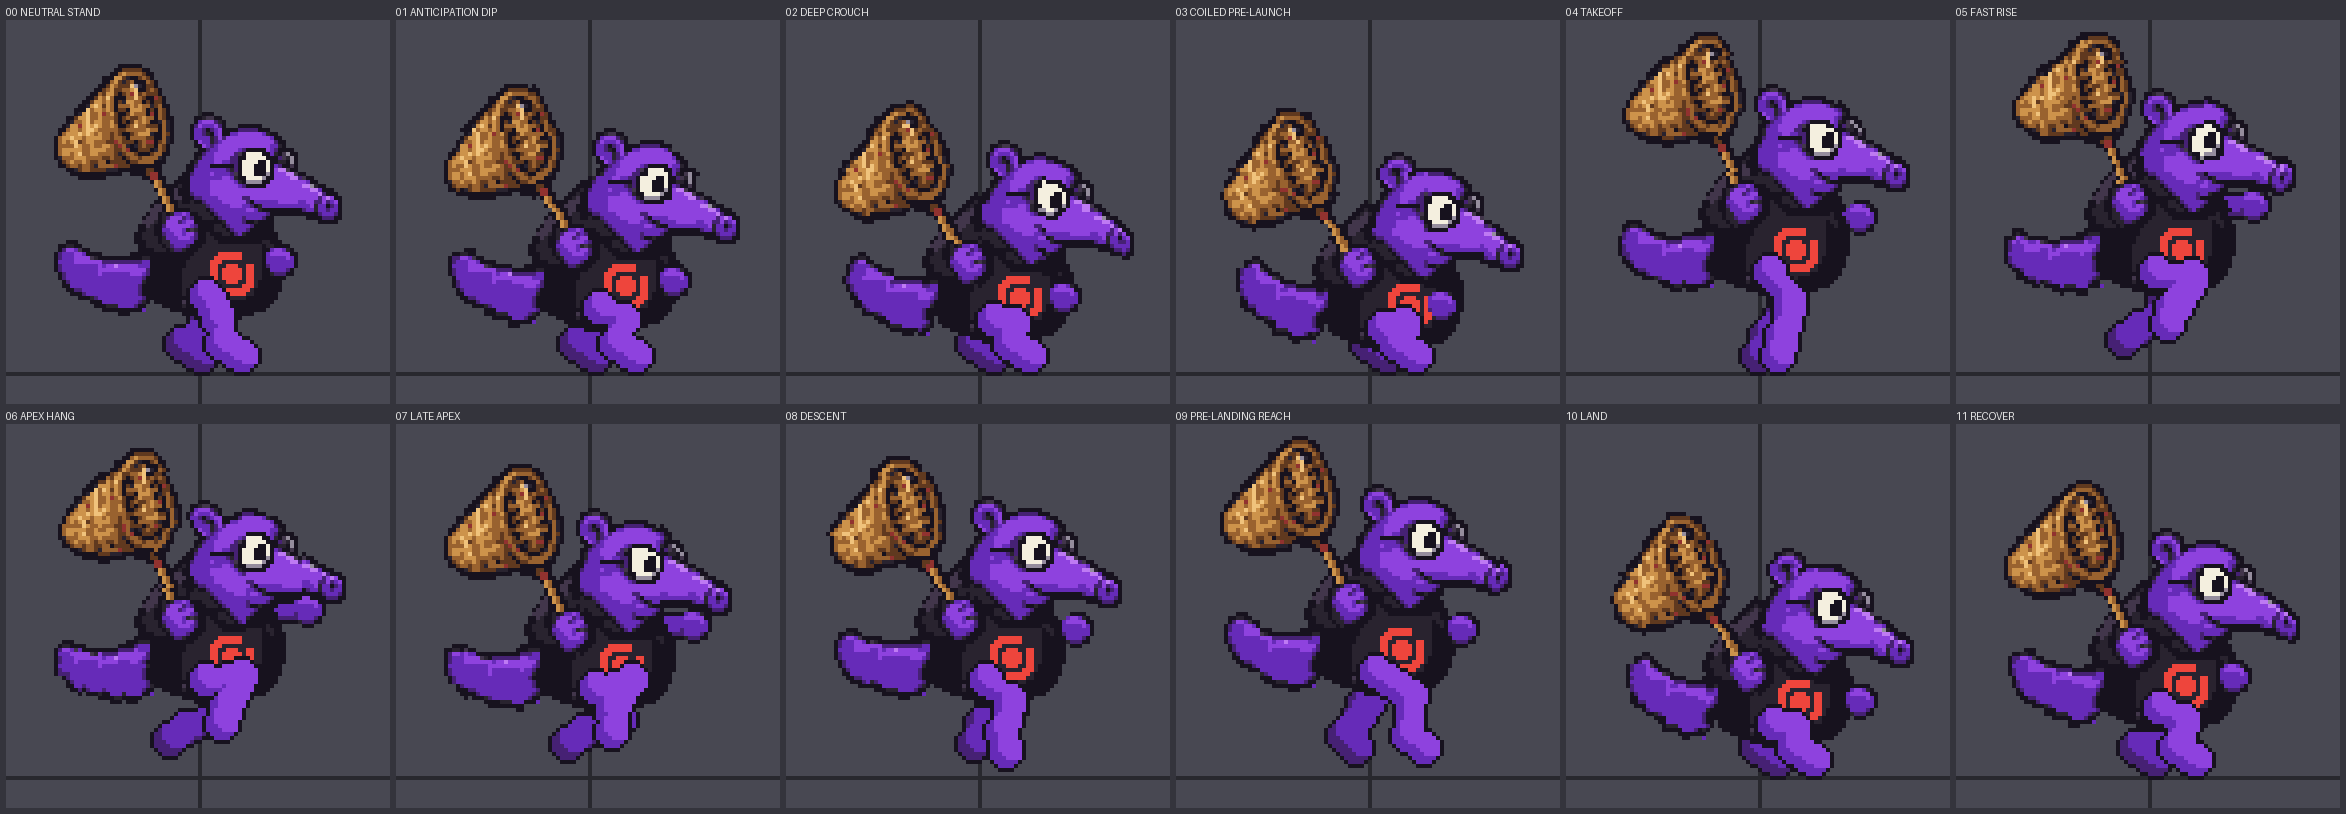
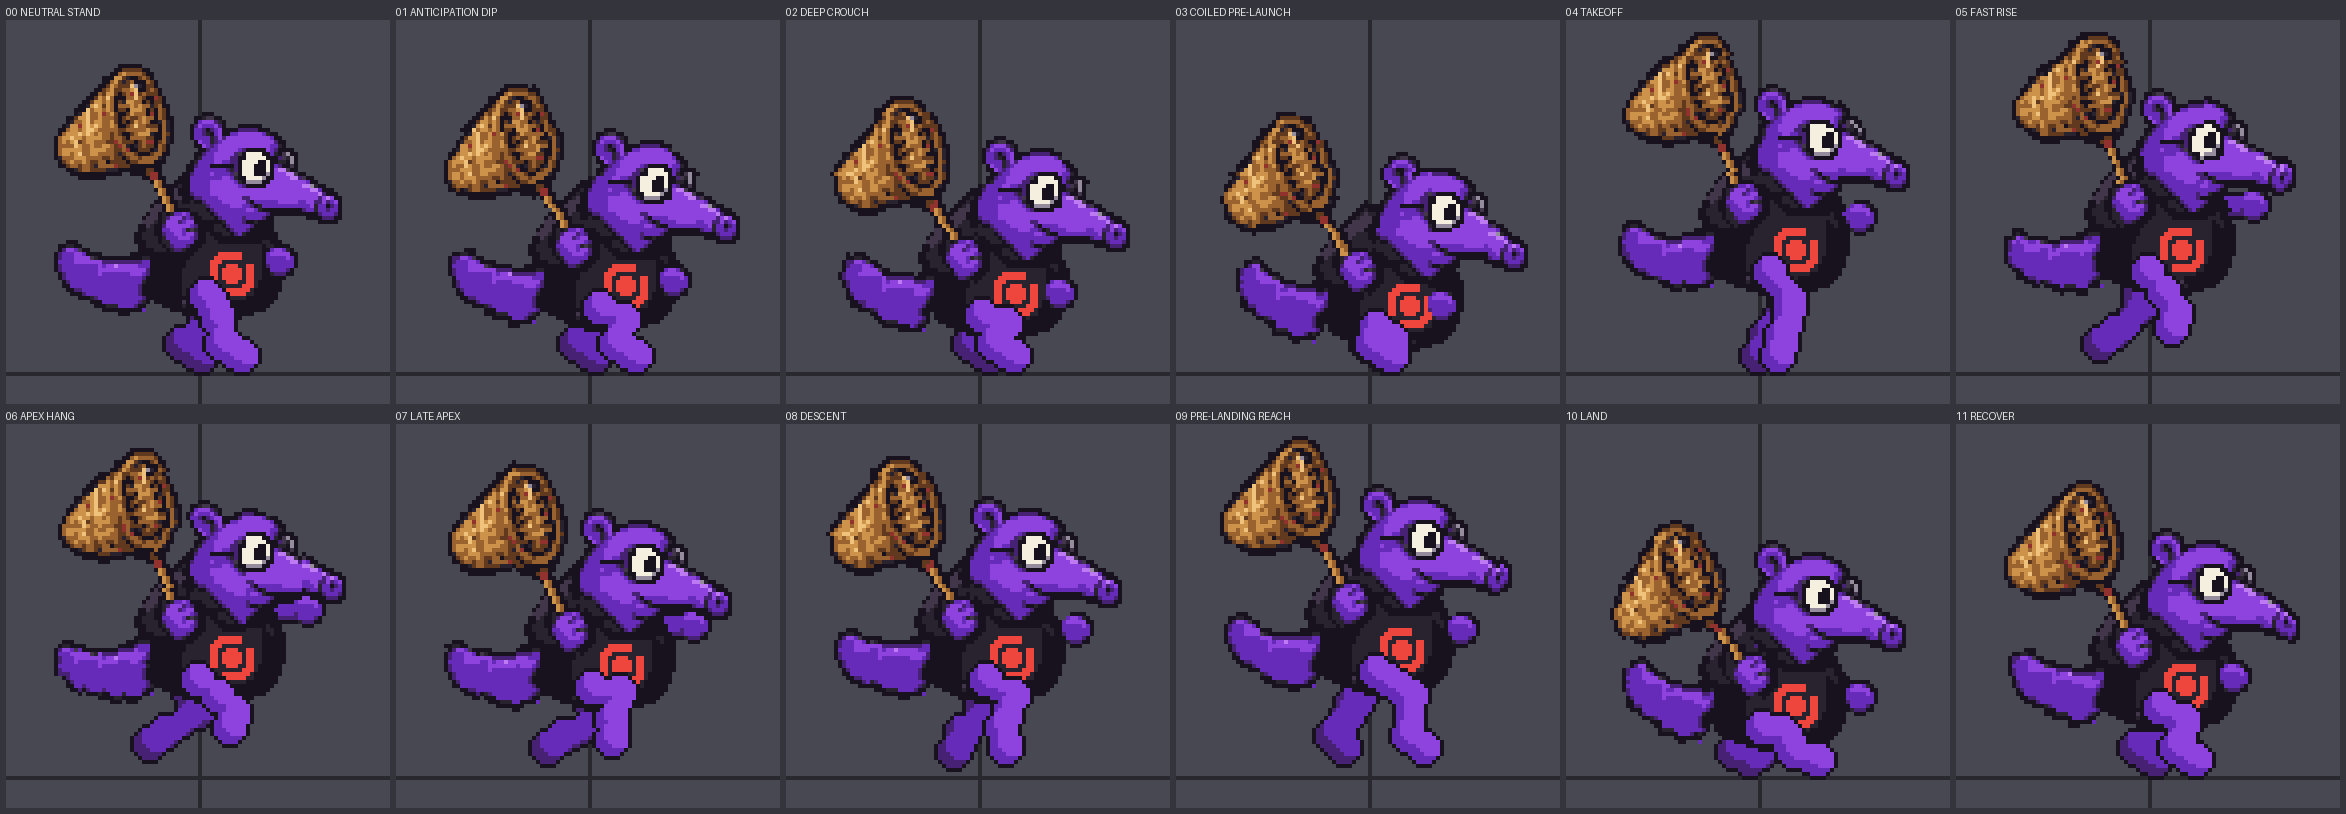
M2: jump sheet pass 2: distinct crouch/coil/land, visible far leg, apex passing
Crouch 5 px, coil 8 px with head pushed forward and net dropped further,
land 7 px with the head level and the net thrown +12. Far hip sits 4 px
behind the near hip in the air so the trailing dark leg reads; late apex
opens the tuck. Near hip moves back where the thigh covered the emblem.

diff --git a/snouty-art/snoutyart/anim/jump.py b/snouty-art/snoutyart/anim/jump.py
@@ -9,7 +9,7 @@ above 88; the cart adds its own parabolic lift, and each frame's meta carries a
 suggested "lift" (px up) used by the scrolling preview.
 
 Cell coordinates (96x96, origin (48,88), y down). Per frame: body offset, part
-rotations, near/far toe and ankle, and a per-frame segment length for the leg
+rotations, near/far hip x, toe and ankle, and a per-frame segment length for the leg
 IK (shorter than the rig's 14 px when the leg should read as straightened,
 since the full 28 px leg never fits between hip and ground in this cell).
 """
@@ -27,38 +27,47 @@ GROUNDED = [True] * 5 + [False] * 5 + [True] * 2
 LIFT = [0, 0, 0, 0, 0, 10, 26, 36, 34, 20, 0, 0]
 
 # name: per-frame values, index = frame
-# body (dx, dy): torso/hips/tail. Positive dy = down.
-BODY = [(0, 0), (1, 3), (2, 6), (2, 8), (1, -6), (0, -6), (0, -5), (0, -3),
-        (0, -5), (0, -7), (2, 6), (1, 2)]
+# body (dx, dy): torso/tail. Positive dy = down.
+BODY = [(0, 0), (1, 3), (1, 5), (2, 8), (1, -6), (0, -6), (0, -5), (0, -3),
+        (0, -5), (0, -7), (1, 7), (1, 2)]
 # head and net follow the body with an extra (dx, dy) lag/lead
-HEAD_OFF = [(0, 0), (1, 1), (1, 1), (1, 2), (1, -1), (1, 0), (1, 1), (0, 1),
-            (0, 0), (0, -1), (1, 2), (1, 1)]
-NET_OFF = [(0, 0), (0, 1), (0, 2), (0, 1), (0, -1), (0, -1), (0, 1), (0, 2),
-           (0, 1), (0, -1), (0, 3), (0, 1)]
-HEAD_ROT = [0, -2, -3, -4, 2, 3, 4, 2, 0, 1, -4, -1]
-TAIL_ROT = [0, -4, -8, -12, 4, 10, 12, 8, 2, -2, -12, -4]
-NET_ROT = [0, 3, 6, 8, -4, -6, -4, 0, 4, 2, 8, 2]
+HEAD_OFF = [(0, 0), (1, 1), (1, 1), (2, 2), (1, -1), (1, 0), (1, 1), (0, 1),
+            (0, 0), (0, -1), (0, -1), (1, 1)]
+NET_OFF = [(0, 0), (0, 1), (0, 2), (0, 2), (0, -1), (0, -1), (0, 1), (0, 2),
+           (0, 1), (0, -1), (2, 3), (0, 1)]
+HEAD_ROT = [0, -2, -2, -4, 2, 3, 4, 0, 0, 1, 0, -1]
+TAIL_ROT = [0, -4, -7, -12, 4, 10, 12, 6, 2, -2, -12, -4]
+# coil drops the net a further 4 degrees than the crouch; the land throws it
+# forward/down with the bag's momentum (+12, dx +2).
+NET_ROT = [0, 3, 4, 8, -4, -6, -4, -2, 4, 2, 12, 2]
 # free (far) hand offset from its reference pivot, relative to the body
 HAND = [(0, 0), (0, 2), (-1, 3), (-4, 3), (4, -5), (6, -8), (7, -9), (6, -7),
-        (4, -4), (3, -2), (3, 3), (0, 1)]
+        (4, -4), (3, -2), (4, 1), (0, 1)]
 
-# legs: toe (x rel hip, y rel ground where 0 = planted), ankle offset from toe,
-# IK segment length (thigh = shin).
-NEAR_TOE = [(9, 0), (9, 0), (9, 0), (8, 0), (2, 0), (3, -8), (4, -9), (4, -7),
-            (5, -2), (12, -3), (10, 0), (9, 0)]
+# hip x offsets from the body (near leg, far leg). The near hip moves 1-2 px
+# back where the thigh would otherwise cover the Iris emblem (moving it right
+# covered more, because the knee then rises across the belly). The far hip sits
+# 4 px behind the near hip in the air so the dark trailing leg shows.
+NEAR_HIP_DX = [0, 0, -2, -2, 0, -2, -2, -1, 0, 0, -2, 0]
+FAR_HIP_DX = [2, 2, 2, 2, 2, -6, -6, -4, -4, -1, 2, 2]
+
+# legs: toe (x rel own hip, y rel ground where 0 = planted), ankle offset from
+# toe, IK segment length (thigh = shin).
+NEAR_TOE = [(9, 0), (9, 0), (8, 0), (4, 0), (2, 0), (6, -7), (8, -8), (5, -5),
+            (5, -3), (12, -3), (14, 0), (9, 0)]
 NEAR_ANK = [(-5, -3), (-5, -3), (-5, -3), (-5, -3), (1, -5), (1, -4), (1, -4), (0, -5),
-            (-1, -5), (-4, -3), (-5, -3), (-5, -3)]
-FAR_TOE = [(-3, 0), (-3, 0), (-2, 0), (-1, 0), (-5, 0), (-10, -4), (-11, -5), (-9, -4),
-           (-5, -4), (-7, -3), (-1, 0), (-3, 0)]
+            (-1, -5), (-4, -3), (-6, -2), (-5, -3)]
+FAR_TOE = [(-3, 0), (-3, 0), (-2, 0), (-1, 0), (-5, 0), (-8, -3), (-8, -4), (-8, -3),
+           (-4, -2), (-7, -3), (-7, 0), (-3, 0)]
 FAR_ANK = [(-5, -3), (-5, -3), (-5, -3), (-5, -3), (2, -5), (4, -3), (4, -3), (4, -3),
-           (2, -5), (-3, -3), (-5, -3), (-5, -3)]
-NEAR_SEG = [6.5, 6.5, 5.5, 5.5, 9, 9.5, 9.5, 9, 8, 10.5, 5.5, 7]
-FAR_SEG = [7.5, 7.5, 6.5, 6, 9, 8.5, 9, 9, 8, 9, 6, 7.5]
+           (2, -5), (-3, -3), (-4, -2), (-5, -3)]
+NEAR_SEG = [6.5, 6.5, 6, 5.5, 9, 6, 6, 7, 8, 10.5, 5.5, 7]
+FAR_SEG = [7.5, 7.5, 7, 6, 9, 9, 9, 9, 8, 9, 7, 7.5]
 
 
 def _leg(rig, i, near):
     bx, by = BODY[i]
-    hx, hy = rig.joint("hip", bx + (0 if near else 2), by)
+    hx, hy = rig.joint("hip", bx + (NEAR_HIP_DX if near else FAR_HIP_DX)[i], by)
     ground = rig.origin[1] - (rig.limbs["leg"]["foot_width"] // 2 + 1)
     tx, ty = (NEAR_TOE if near else FAR_TOE)[i]
     ax, ay = (NEAR_ANK if near else FAR_ANK)[i]
@@ -71,7 +80,8 @@ def _leg(rig, i, near):
 
 def build(rig) -> Cycle:
     assert all(len(t) == 12 for t in (BODY, HEAD_OFF, NET_OFF, HEAD_ROT, TAIL_ROT, NET_ROT,
-                                      HAND, NEAR_TOE, NEAR_ANK, FAR_TOE, FAR_ANK, NEAR_SEG, FAR_SEG))
+                                      HAND, NEAR_TOE, NEAR_ANK, FAR_TOE, FAR_ANK, NEAR_SEG, FAR_SEG,
+                                      NEAR_HIP_DX, FAR_HIP_DX))
     frames = []
     for i in range(12):
         bx, by = BODY[i]
